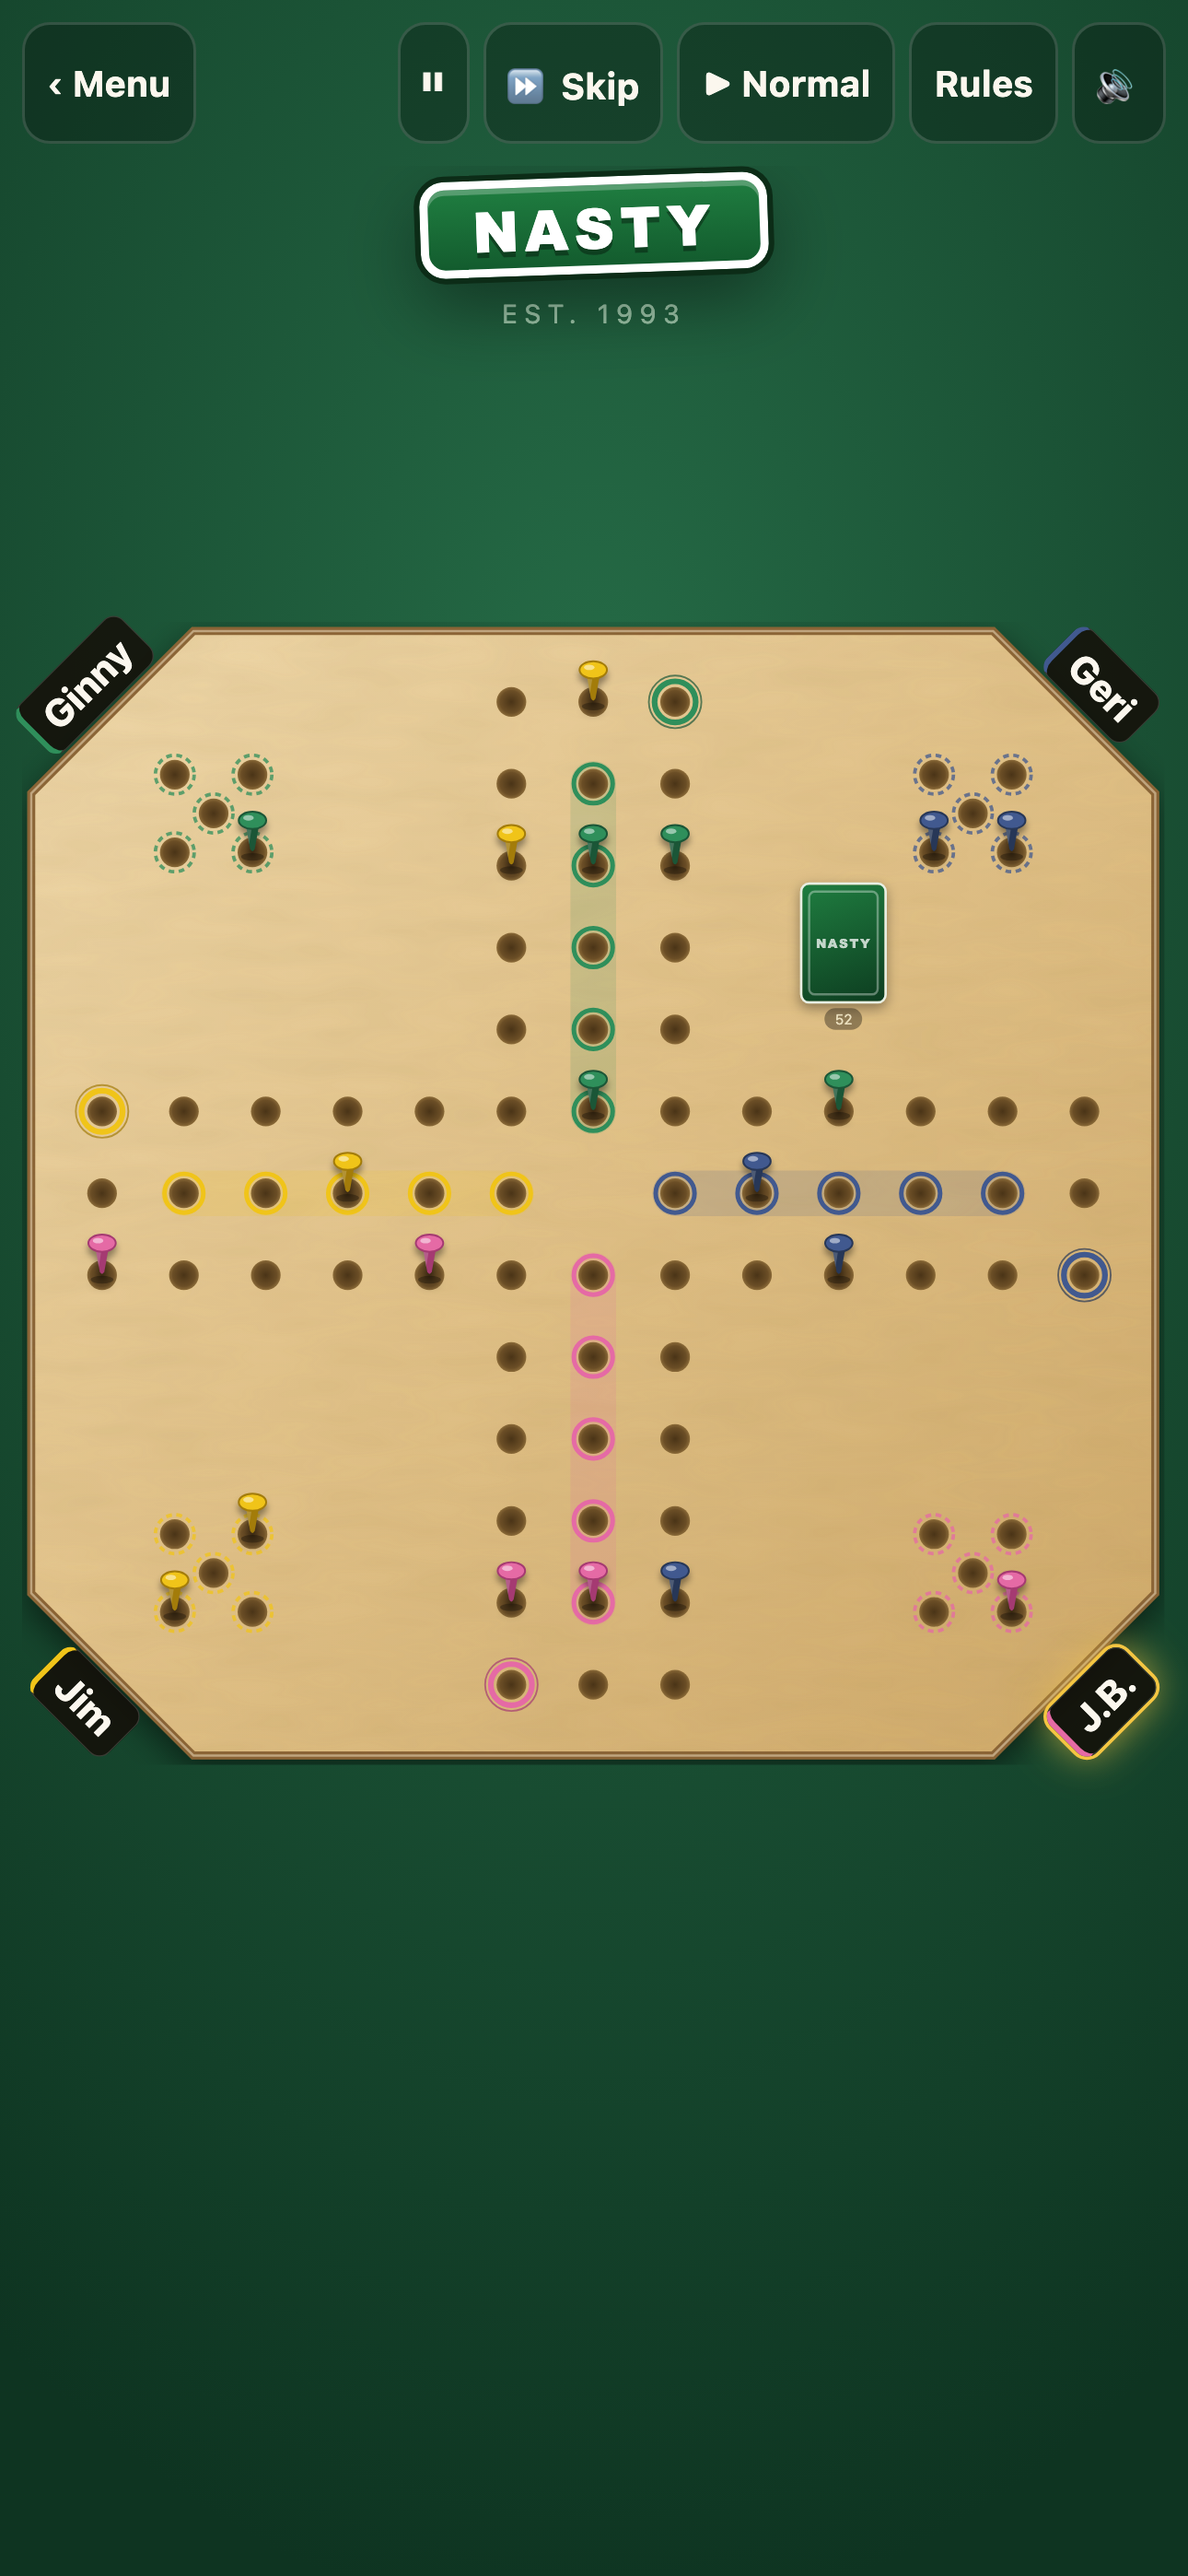
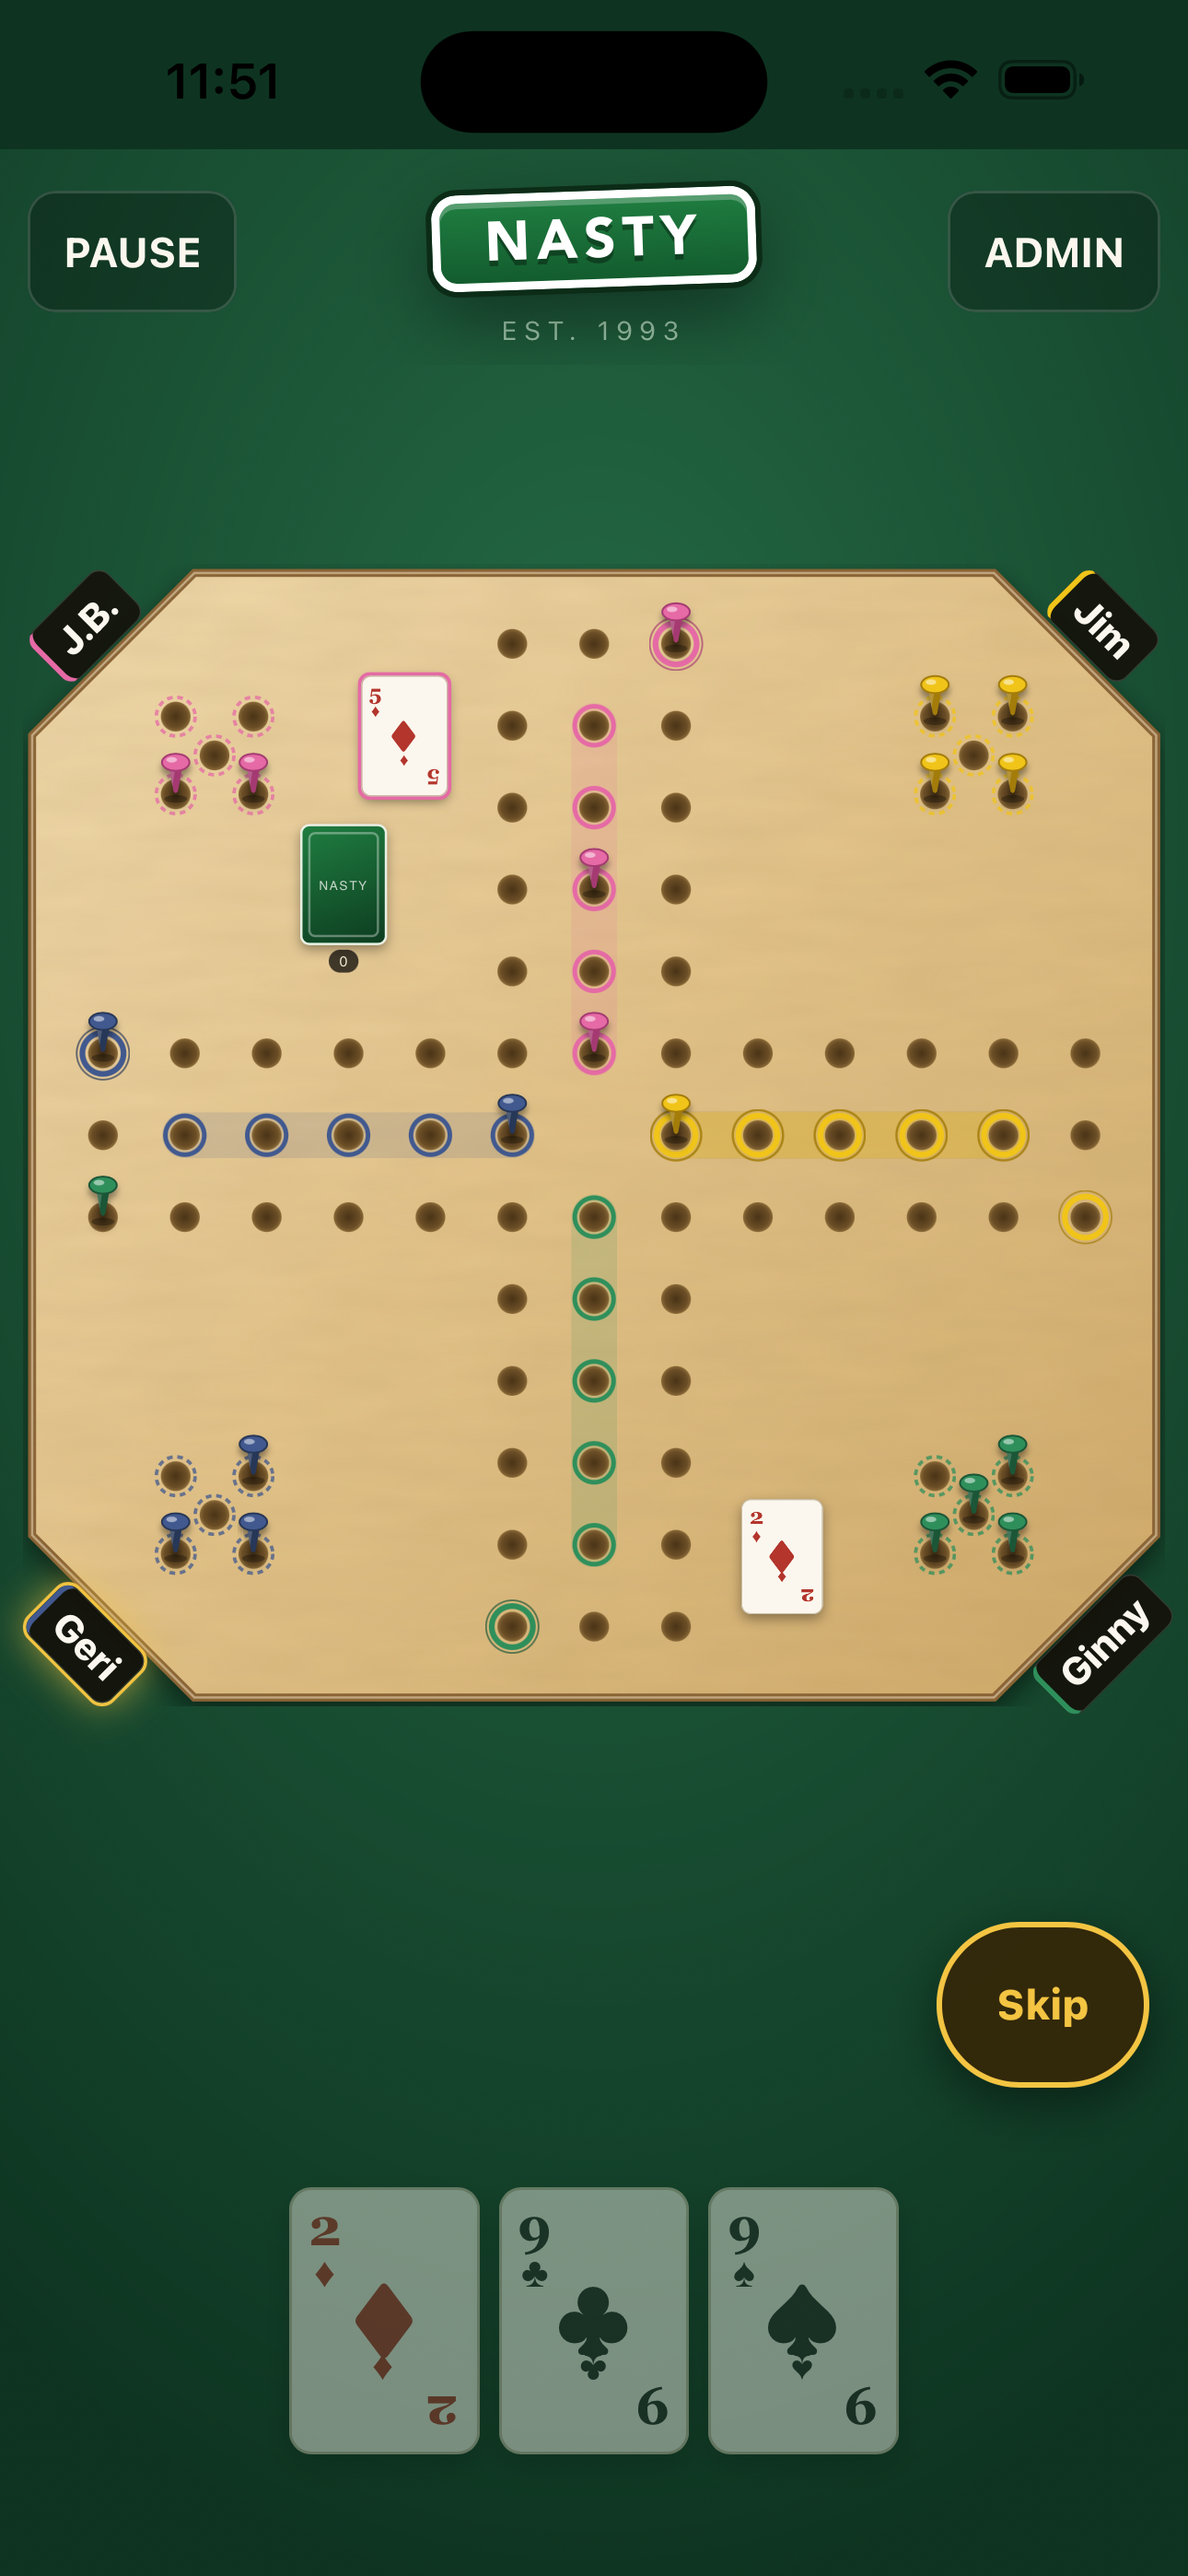
appstore: replace stale July 12 screenshots with fresh v0.48/build 64 shots
The 6 screenshots on the App Store listing were from before accounts,
Sign in with Apple, the seat-picker CPU-difficulty popup, and the menu
nameplate/tip existed - one (setup.png) showed a setup screen that has
since been deleted from the app entirely. Replaced with 6 new shots
captured from the current app (v0.48, iOS build 64) running in an
iPhone 15 Pro Max simulator (1290x2796, matches APP_IPHONE_67): menu,
seat picker, 4-player board, 6-player Teams board, a NASTY takeout
blast, and the family leaderboard. Gallery captions in index.html
updated to match.

diff --git a/appstore/index.html b/appstore/index.html
@@ -100,24 +100,29 @@
 <body>
   <header>
     <div class="sign"><b>NASTY</b></div>
-    <p>App Store shots - v0.10.2.<br>
+    <p>App Store shots - v0.48.<br>
       Golf tees, a real board, and a very satisfying blast when you take somebody out.</p>
   </header>
 
   <div class="grid">
     <figure>
-      <div class="shot"><img src="setup.png" alt="Game setup screen"></div>
-      <figcaption><span class="tag">Setup</span>Pick players, teams, and who's human vs. CPU</figcaption>
+      <div class="shot"><img src="menu.png" alt="Main menu, signed out"></div>
+      <figcaption><span class="tag">Menu</span>Players, game type, a rules tip, and Online play gated until you sign in</figcaption>
+    </figure>
+
+    <figure>
+      <div class="shot"><img src="seatpicker.png" alt="Pick your seat popup with per-CPU difficulty"></div>
+      <figcaption><span class="tag">Pick Your Seat</span>Choose your color and set each CPU's difficulty right there</figcaption>
     </figure>
 
     <figure>
       <div class="shot"><img src="board4.png" alt="4-player board mid-game"></div>
-      <figcaption><span class="tag">4-Player</span>Tees racing around the board, deck in the dealer's corner</figcaption>
+      <figcaption><span class="tag">4-Player</span>Tees racing around the board, cards in hand</figcaption>
     </figure>
 
     <figure>
-      <div class="shot"><img src="preview.png" alt="Card path preview with a pulsing red kill ring"></div>
-      <figcaption><span class="tag">Card Preview</span>Tap a card and see the dotted path - a pulsing red ring means that landing takes someone out</figcaption>
+      <div class="shot"><img src="board6.png" alt="6-player teams board mid-game"></div>
+      <figcaption><span class="tag">6-Player Teams</span>Partners sit across the board - ten tees moving at once</figcaption>
     </figure>
 
     <figure>
@@ -126,13 +131,8 @@
     </figure>
 
     <figure>
-      <div class="shot"><img src="win.png" alt="Win screen with confetti"></div>
-      <figcaption><span class="tag">Victory</span>All five tees home - confetti and bragging rights</figcaption>
-    </figure>
-
-    <figure>
-      <div class="shot"><img src="board6.png" alt="6-player teams board mid-game"></div>
-      <figcaption><span class="tag">6-Player Teams</span>Partners sit across the board - ten tees moving at once</figcaption>
+      <div class="shot"><img src="leaderboard.png" alt="Family leaderboard"></div>
+      <figcaption><span class="tag">Leaderboard</span>Points for beating tougher opponents, tracked across the whole family</figcaption>
     </figure>
   </div>
 
